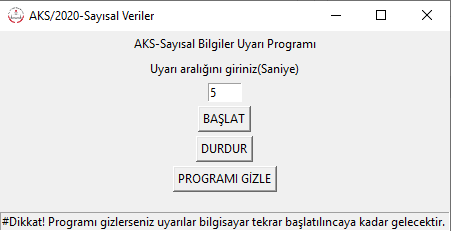
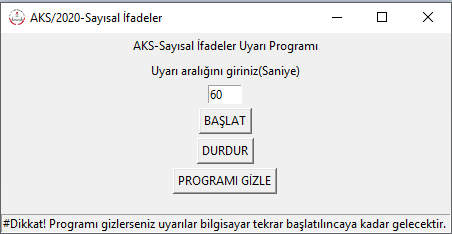
Add files via upload

diff --git a/aks2020.py b/aks2020.py
@@ -22,7 +22,7 @@ def islem():
     while True:
         if looping == START:
             toast = ToastNotifier()
-            toast.show_toast("Bilgi",oku[random.randint(0,len(oku))],duration=int(txt.get()),icon_path=r"meb.ico")
+            toast.show_toast("Bilgi",oku[random.randint(0,len(oku))],duration=int(txt.get()),icon_path=r"pics/meb.ico")
             sleep(7)
         if looping == EXIT:
             break
@@ -42,12 +42,12 @@ def dur():
 looping = STOP
 
 root = Tk()
-root.title("AKS/2020-Sayısal Veriler")
+root.title("AKS/2020-Sayısal İfadeler")
 root.geometry("450x200+500+190")
 
-root.iconphoto(False, ImageTk.PhotoImage(Image.open(r"meb.png").resize((86, 30), Image.ANTIALIAS)))
+root.iconphoto(False, ImageTk.PhotoImage(Image.open(r"pics/meb.png").resize((86, 30), Image.ANTIALIAS)))
 frm = Frame()
-lbl = Label(frm,text="AKS-Sayısal Veriler Uyarı Programı")
+lbl = Label(frm,text="AKS-Sayısal İfadeler Uyarı Programı")
 lbl.grid(pady=2)
 lbl2 = Label(frm,text="Uyarı aralığını giriniz(Saniye)")
 lbl2.grid(pady=2)
